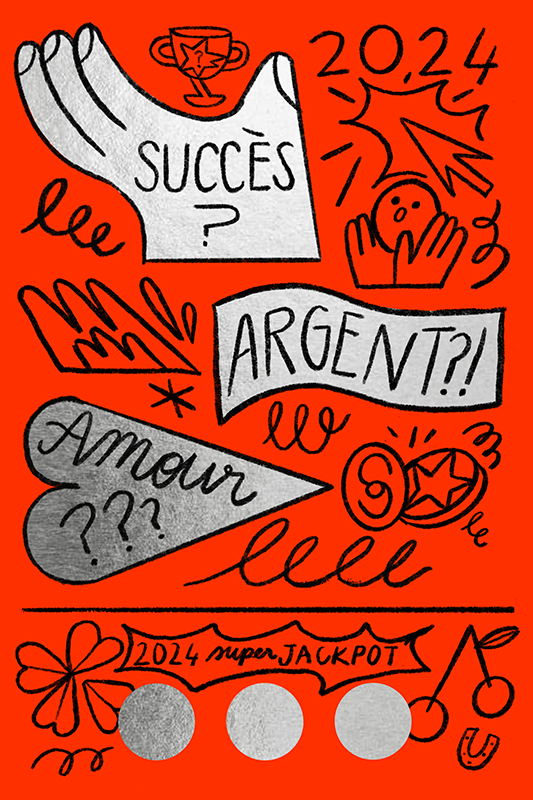
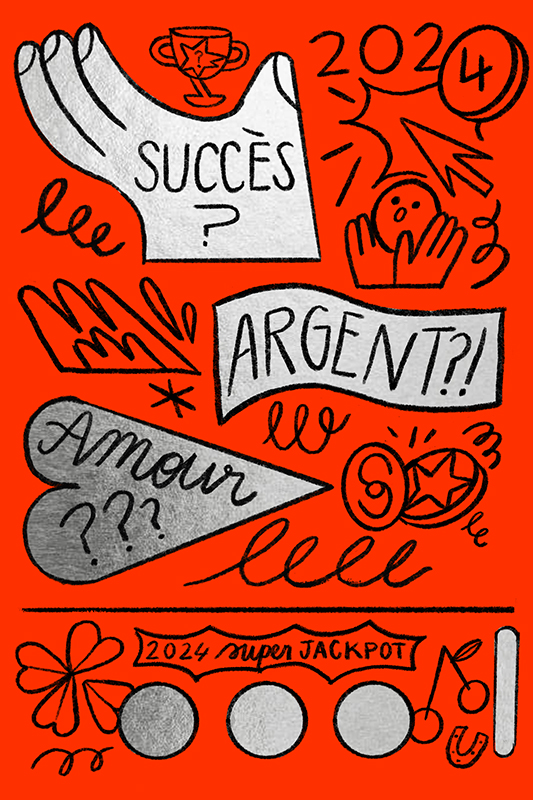
IMGupdate

diff --git a/index.html b/index.html
@@ -18,6 +18,14 @@
      /* -webkit-tap-highlight-color: rgba(0,0,0,0); */
     }
 
+    .hero_h1 {
+    color: rgb(0, 0, 0);
+    position: absolute;
+    left: 0;
+    right: 0;
+    margin: 0 auto;
+}
+
       body {
         background: #FFF;
         color: #000;
@@ -130,8 +138,10 @@
     </style>
   </head>
   <body>
-    <!-- <button class="custom-btn btn-1">evabarenton.com</button>-->
-
+    <!-- <button class="custom-btn btn-1">evabarenton.com</button>
+    <div class="hero_h1">
+      <h1>QUE VOUS RÉSERVE 2024?</h1>
+  </div>-->
     <p>QUE VOUS RÉSERVE 2024?<br>
 Grattez avec votre curseur pour le découvrir</p>
 
@@ -197,7 +207,7 @@ Grattez avec votre curseur pour le découvrir</p>
 <button onclick="window.location.href = 'https://evabarenton.com/';" class="custom-btn btn-1">evabarenton.com</button>
 
   
-    <button onclick="window.location.href = 'https://evabarenton.com/2024';" class="custom-btn btn-1">Réclamez votre gain</button>
+    <button onclick="window.location.href = 'https://evabarenton.com/2024';" class="custom-btn btn-1">Cliquez ici pour éclamez votre gain</button>
   
     </div>
 </html>
